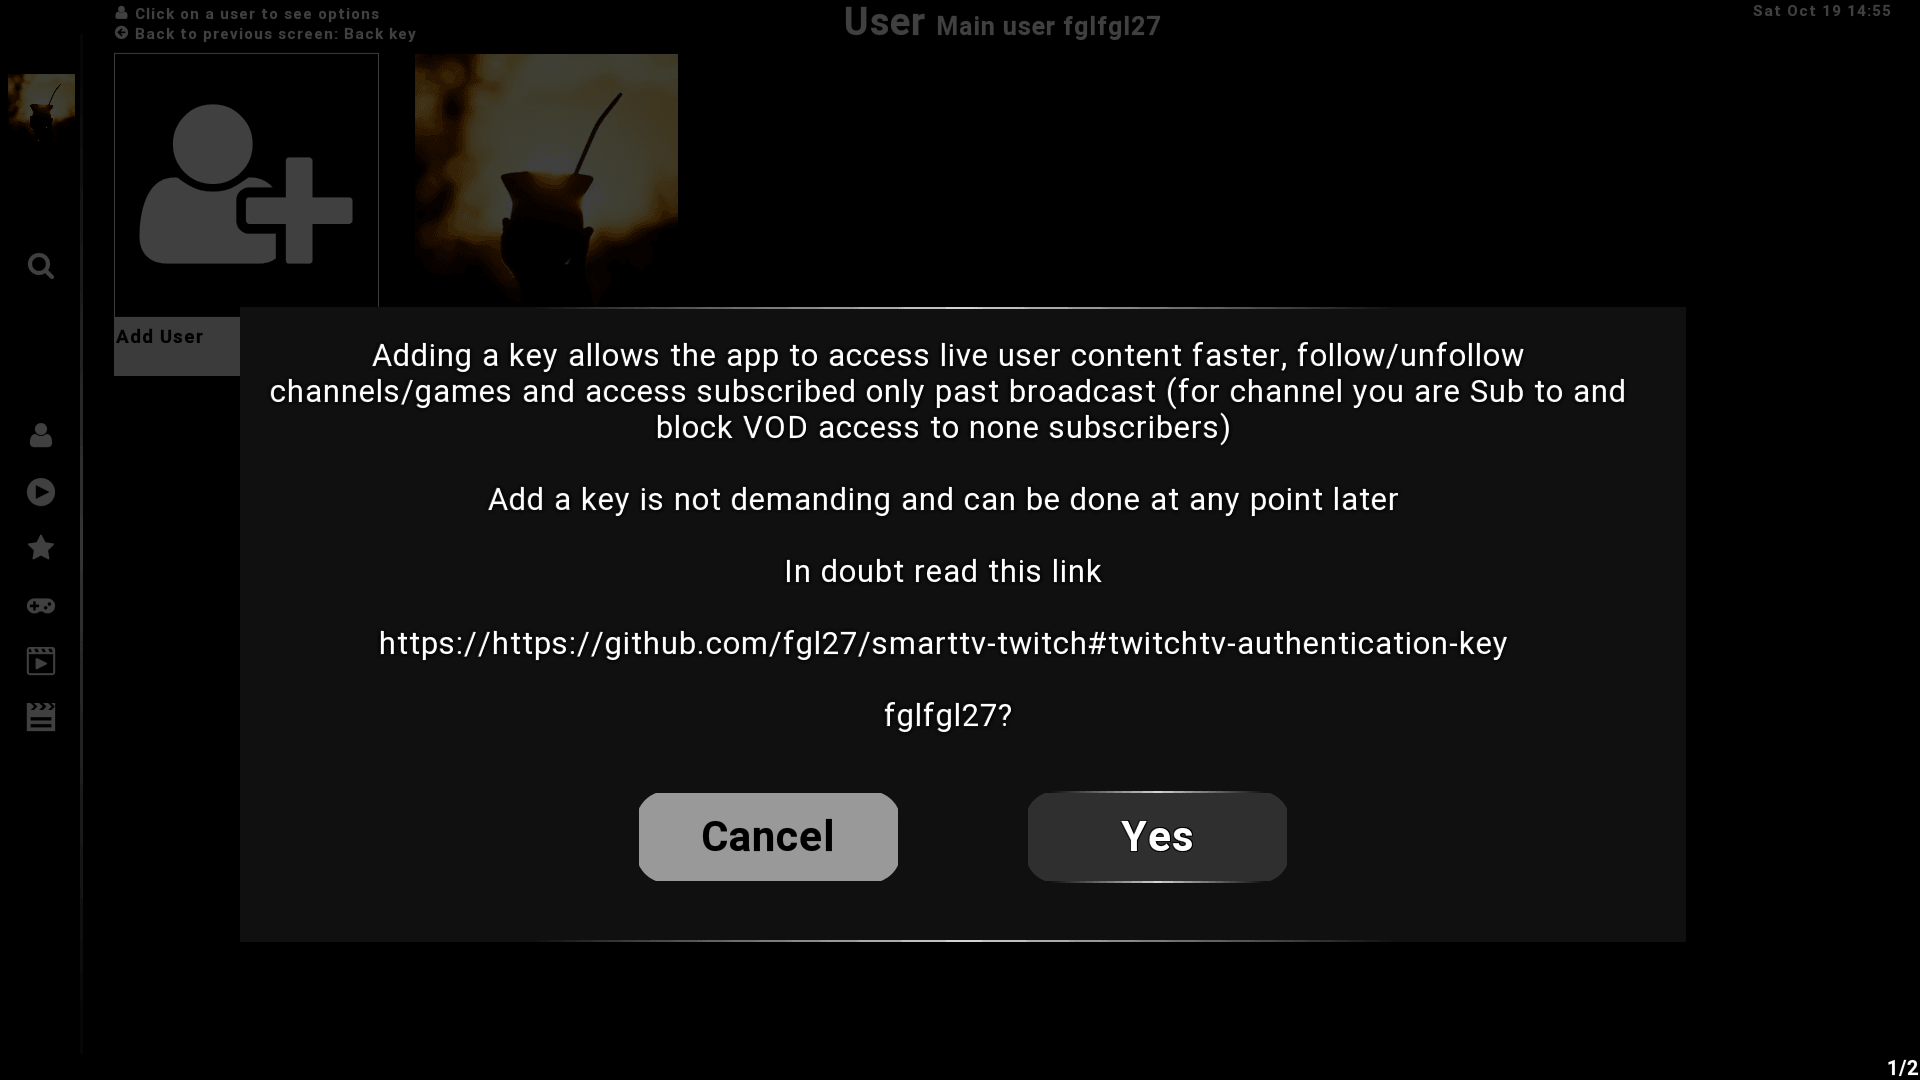
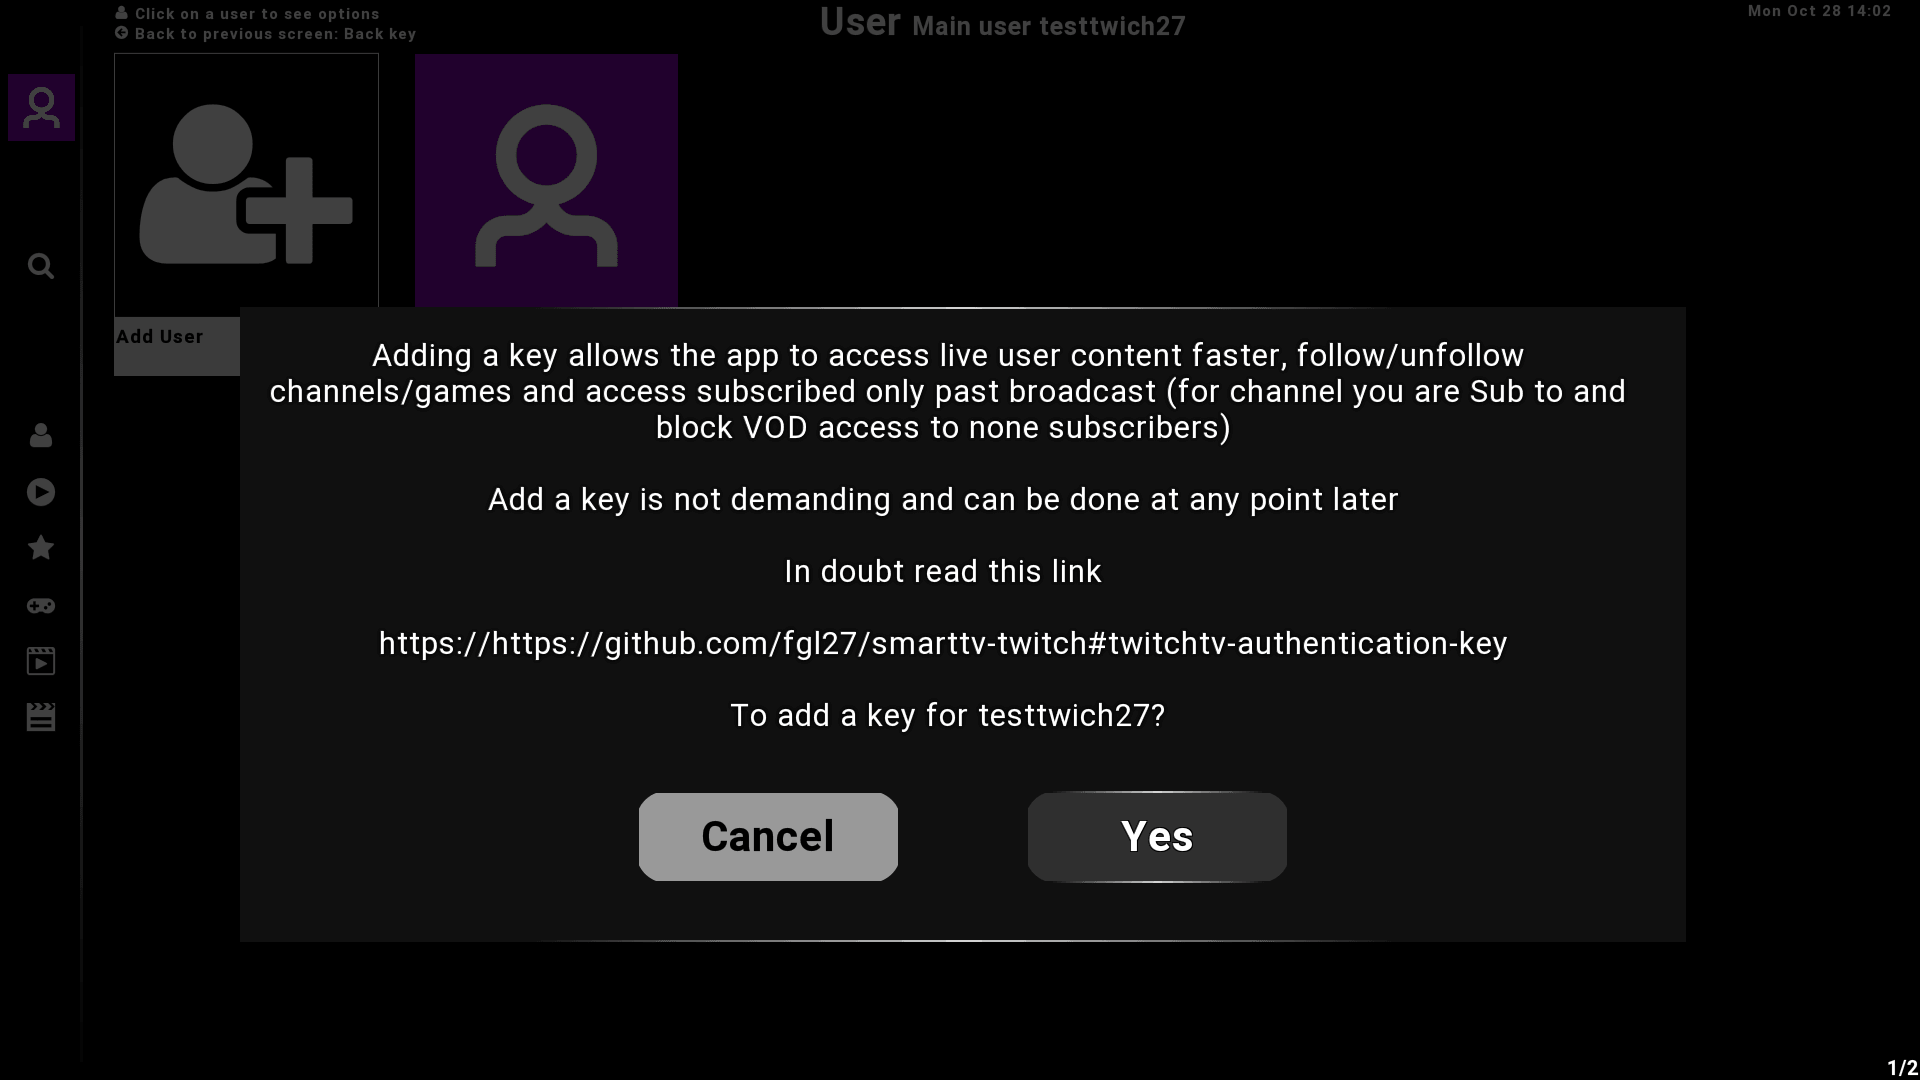
Update autentication key strings and looks

diff --git a/app/languages/en_US.js b/app/languages/en_US.js
@@ -132,7 +132,7 @@ function en_USLang() {
     STR_CONTROLS_PLAY_14 = "Chat and video (Side by side): Color button red (A)";
     STR_F_DISABLE_CHAT = "Chat force disable";
     STR_UPDATE_AVAILABLE = "Update available, check google play store";
-    STR_OAUTH_IN = 'Adding a key allows the app to access live user content faster, follow/unfollow channels/games and access subscribed only past broadcast (for channel you are Sub to and block VOD access to none subscribers) <br> <br> Add a key is not demanding and can be done at any point later <br> <br> In doubt read this link <br> <br> https://https://github.com/fgl27/smarttv-twitch#twitchtv-authentication-key <br> <br>';
+    STR_OAUTH_IN = 'Adding a key allows the app to access live user content faster, follow/unfollow channels/games and access subscribed only past broadcast (for channel you are Sub to and block VOD access to none subscribers) <br> <br> Add a key is not demanding and can be done at any point later <br> <br> In doubt read this link <br> <br> https://https://github.com/fgl27/smarttv-twitch#twitchtv-authentication-key <br> <br>To add a key for ';
     STR_USER_CODE = "Add Authentication key";
     STR_USER_CODE_OK = "Key added OK";
     STR_KEY_BAD = "Key test failed, new one needs to be added";
@@ -305,7 +305,7 @@ function en_USLang() {
     STR_A_Z = "Alphabetical A - Z";
     STR_Z_A = "Alphabetical Z - A";
     STR_APP_ANIMATIONS = "Enable app animations";
-    STR_OAUTH_EXPLAIN1 = " below, fallowing this steps:";
+    STR_OAUTH_EXPLAIN1 = ", fallow bellow steps:";
     STR_OAUTH_EXPLAIN2 = "Access the site link_link (using a computer or a smart phone)";
     STR_OAUTH_EXPLAIN3 = "Click the \"Authorize\" button which will take you to main Twitch.TV authentication site";
     STR_OAUTH_EXPLAIN4 = "Login to Twitch.TV using the username you are trying to add a key for";

diff --git a/app/specific/AddCode.js b/app/specific/AddCode.js
@@ -22,7 +22,9 @@ function AddCode_init() {
     ScreensObj_SetTopLable(STR_USER_CODE);
     Main_AddCodeInput.placeholder = STR_PLACEHOLDER_OAUTH;
     Main_ShowElement('oauth_scroll');
-    Main_innerHTML("oauth_text", STR_OAUTH_IN + AddUser_UsernameArray[Main_values.Users_AddcodePosition].name + STR_OAUTH_EXPLAIN);
+    Main_innerHTML("oauth_text", STR_OAUTH_IN +
+        '<div style="display: inline-block; color: #FF0000; font-size: 110%; font-family: \'Roboto-Bold\';">' +
+        AddUser_UsernameArray[Main_values.Users_AddcodePosition].name + '</div>' + STR_OAUTH_EXPLAIN);
     AddCode_inputFocus();
 }
 

diff --git a/index.html b/index.html
@@ -1911,7 +1911,7 @@
                 </div>
                 <div id="oauth_scroll" class="screen_holder hide">
                     <div id="oauth" class="input_text_box" style="margin-top: 0;">
-                        <div id="oauth_text" class="class_bold" style="color: #FFFFFF; font-size: 90%;"></div>
+                        <div id="oauth_text" class="class_bold" style="color: #FFFFFF; font-size: 88%;"></div>
                         <input id="oauth_input" class="input_class" type="text" placeholder="" />
                     </div>
                 </div>
